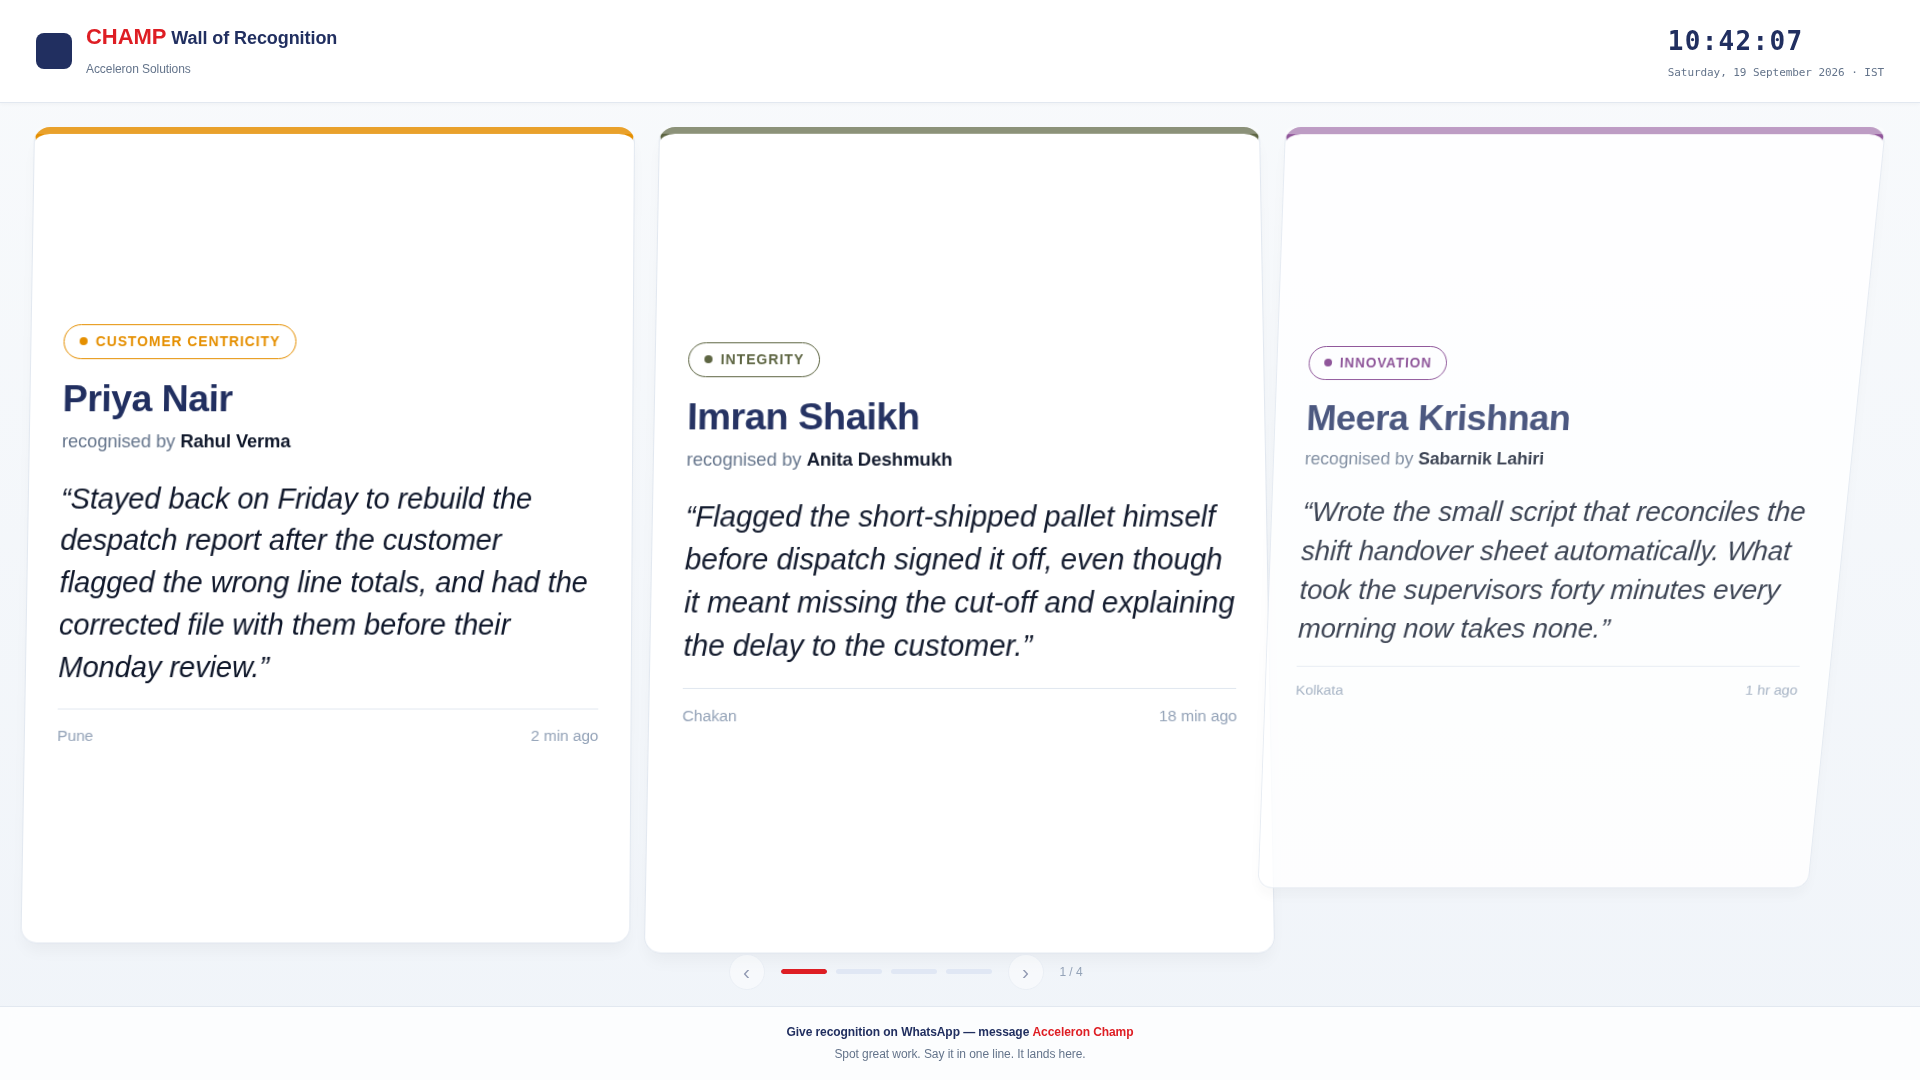
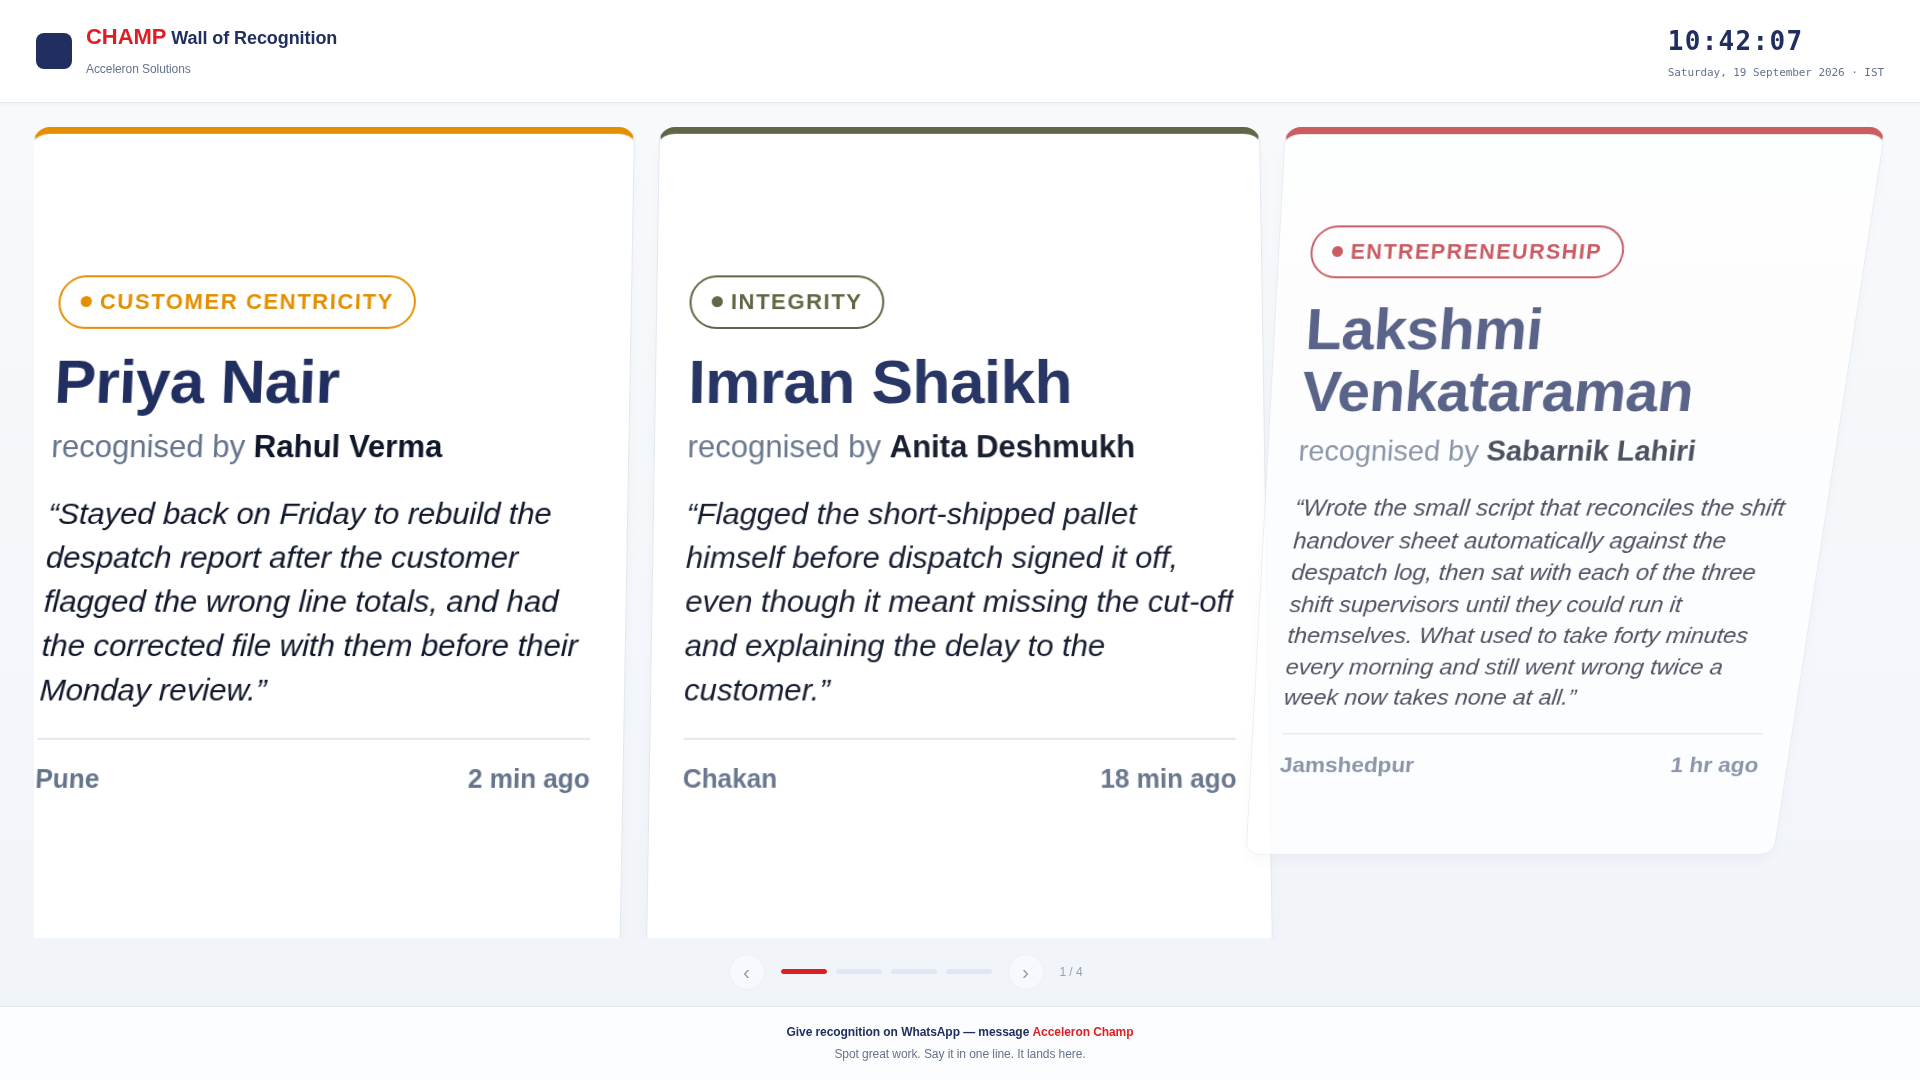
Slide 4

diff --git a/web/src/styles.css b/web/src/styles.css
@@ -2551,7 +2551,14 @@ h3 { font-size: 15px; font-weight: 600; }
    part actually worth walking over to read.
    ═══════════════════════════════════════════════════════════════════════════ */
 
-.board-show { overflow: hidden; }
+/* A definite height, not min-height: the flex children can only be told to
+   shrink into the space left over if the box they sit in has a fixed size.
+   With min-height the tiles keep their content height and quietly push the
+   footer off the bottom of the screen on a shorter panel. */
+.board-show {
+  height: 100vh;
+  overflow: hidden;
+}
 
 /* Visually hidden, still read aloud. The flap spans are aria-hidden while
    they riffle, so the settled name has to live somewhere for a screen
@@ -2580,8 +2587,12 @@ h3 { font-size: 15px; font-weight: 600; }
   flex: 1;
   display: grid;
   grid-template-columns: repeat(3, 1fr);
+  grid-template-rows: 1fr;
   gap: 24px;
   min-height: 0;
+  /* Without an explicit single row, a tall tile grows the grid and shoves the
+     footer off the bottom of the screen. */
+  overflow: hidden;
   /* The flaps have to tumble towards the viewer, so the perspective belongs
      on the container the tiles share, not on each tile. */
   perspective: 1800px;
@@ -2598,6 +2609,7 @@ h3 { font-size: 15px; font-weight: 600; }
      tile with the meta line stranded at the bottom. */
   justify-content: center;
   min-height: 0;
+  overflow: hidden;
   padding: 30px 32px;
   background: #ffffff;
   border: 1px solid var(--line);
@@ -2650,21 +2662,21 @@ h3 { font-size: 15px; font-weight: 600; }
   gap: 8px;
   max-width: 100%;
   min-width: 0;
-  padding: 6px 15px;
-  border: 1px solid var(--behaviour, var(--navy-600));
+  padding: 8px 20px;
+  border: 2px solid var(--behaviour, var(--navy-600));
   border-radius: var(--radius-full);
   background: #ffffff;
   color: var(--behaviour, var(--navy-600));
   font-family: var(--font-heading);
-  font-size: clamp(11px, .72vw, 16px);
+  font-size: clamp(13px, 1.14vw, 24px);
   font-weight: 700;
   letter-spacing: .07em;
   text-transform: uppercase;
 }
 .bt-chip .chip-dot {
-  width: 8px;
-  height: 8px;
-  flex: 0 0 8px;
+  width: 11px;
+  height: 11px;
+  flex: 0 0 11px;
   border-radius: 50%;
   background: var(--behaviour, var(--navy-600));
 }
@@ -2677,11 +2689,12 @@ h3 { font-size: 15px; font-weight: 600; }
 }
 
 .bt-name {
-  margin: 18px 0 0;
+  margin: 20px 0 0;
   font-family: var(--font-heading);
-  font-size: clamp(22px, 1.95vw, 42px);
-  font-weight: 700;
-  line-height: 1.15;
+  font-size: clamp(28px, 3.2vw, 70px);
+  font-weight: 800;
+  line-height: 1.08;
+  letter-spacing: -.01em;
   color: var(--navy-600);
   /* Flap boards are monospaced because every character sits on one drum; the
      tabular figures keep the riffle from shuffling the name sideways. */
@@ -2691,38 +2704,48 @@ h3 { font-size: 15px; font-weight: 600; }
 .flap-rolling { color: var(--faint); }
 .flap-blank { color: transparent; }
 
+/* Read from across a floor, so the giver's name carries the weight and the
+   connecting words stay out of its way rather than matching it. */
 .bt-by {
-  margin-top: 7px;
-  font-size: clamp(13px, .95vw, 20px);
+  margin-top: 12px;
+  font-size: clamp(16px, 1.6vw, 34px);
+  line-height: 1.3;
   color: var(--muted);
   font-weight: 400;
 }
-.bt-by strong { color: var(--ink); font-weight: 600; }
+.bt-by strong { color: var(--ink); font-weight: 700; }
 
 .bt-reason {
-  margin: 22px 0 0;
-  font-size: clamp(16px, 1.5vw, 32px);
-  line-height: 1.45;
+  margin: 24px 0 0;
+  font-size: clamp(17px, 1.85vw, 39px);
+  line-height: 1.42;
   color: var(--ink);
   font-style: italic;
-  /* A single runaway reason must not push the meta line off the tile. */
+  /* The clamp is the last line of defence only; reasonSizeClass() above has
+     already stepped the size down so the text fits. */
   display: -webkit-box;
-  -webkit-line-clamp: 7;
+  -webkit-line-clamp: 11;
   -webkit-box-orient: vertical;
   overflow: hidden;
 }
+/* Longer reasons step down rather than getting their ending cut off. */
+.bt-reason.is-long    { font-size: clamp(16px, 1.58vw, 33px); }
+.bt-reason.is-longer  { font-size: clamp(15px, 1.34vw, 28px); }
+.bt-reason.is-longest { font-size: clamp(14px, 1.12vw, 23px); line-height: 1.38; }
 
 .bt-meta {
   display: flex;
   align-items: center;
   justify-content: space-between;
   gap: 12px;
-  margin-top: 20px;
-  padding-top: 14px;
-  border-top: 1px solid var(--line);
-  font-size: clamp(11px, .8vw, 16px);
-  font-weight: 500;
-  color: var(--faint);
+  margin-top: 24px;
+  padding-top: 18px;
+  border-top: 2px solid var(--line);
+  font-size: clamp(14px, 1.32vw, 27px);
+  font-weight: 600;
+  /* --faint disappears past a couple of metres; the site is what somebody
+     across the floor actually scans for. */
+  color: var(--muted);
   font-variant-numeric: tabular-nums;
 }
 
@@ -2787,12 +2810,26 @@ h3 { font-size: 15px; font-weight: 600; }
 }
 .board-show-state.paused { color: var(--brand-red); }
 
+/* ── shorter panels ──────────────────────────────────────────────────────── */
+/* 768p and laptop screens. The type is what has to survive, so the spacing
+   pays for it. */
+@media (max-height: 860px) and (min-width: 1101px) {
+  .board-stage { padding: 14px 26px 8px; }
+  .board-slide { gap: 16px; }
+  .board-tile { padding: 20px 26px; }
+  .bt-name { margin-top: 12px; }
+  .bt-by { margin-top: 7px; }
+  .bt-reason { margin-top: 14px; }
+  .bt-meta { margin-top: 15px; padding-top: 12px; }
+  .board-controls { padding: 10px 0 0; }
+}
+
 /* ── narrower screens ────────────────────────────────────────────────────── */
 /* Below kiosk width this is somebody's laptop or phone, where three stacked
    tiles are taller than the viewport. Let the page scroll rather than
    clipping the third one off the bottom with no way to reach it. */
 @media (max-width: 1100px) {
-  .board-show { overflow: visible; }
+  .board-show { height: auto; min-height: 100vh; overflow: visible; }
   .board-stage { padding: 16px 16px 8px; }
   .board-slide { grid-template-columns: 1fr; gap: 14px; }
   .board-tile-pad { display: none; }

diff --git a/web/src/pages/Board.tsx b/web/src/pages/Board.tsx
@@ -321,7 +321,7 @@ function BoardTile({
         recognised by <strong>{item.giver.name}</strong>
       </div>
 
-      <p className="bt-reason">“{item.reason}”</p>
+      <p className={`bt-reason${reasonSizeClass(item.reason)}`}>“{item.reason}”</p>
 
       <div className="bt-meta">
         <span>{item.recipient.site}</span>
@@ -336,6 +336,23 @@ const FLAP_GLYPHS = 'ABCDEFGHIJKLMNOPQRSTUVWXYZ'
  *  without the name being illegible for long. */
 const FLAP_CYCLES = 3
 const FLAP_TICK_MS = 55
+/**
+ * Pick a type size for the reason from how long it is.
+ *
+ * The alternative — one size and a line clamp — trades away the end of the
+ * longest reasons, which are usually the ones worth reading. Stepping the
+ * size down instead means everything fits, and the tiles that CAN be huge
+ * still are. The thresholds are in characters because that is what the
+ * WhatsApp bot actually limits.
+ */
+function reasonSizeClass(reason: string): string {
+  const n = reason.trim().length
+  if (n <= 150) return ''
+  if (n <= 260) return ' is-long'
+  if (n <= 420) return ' is-longer'
+  return ' is-longest'
+}
+
 /** Blank flap filler — keeps the column width steady while a name lands. */
 const NBSP = '\u00A0'
 
